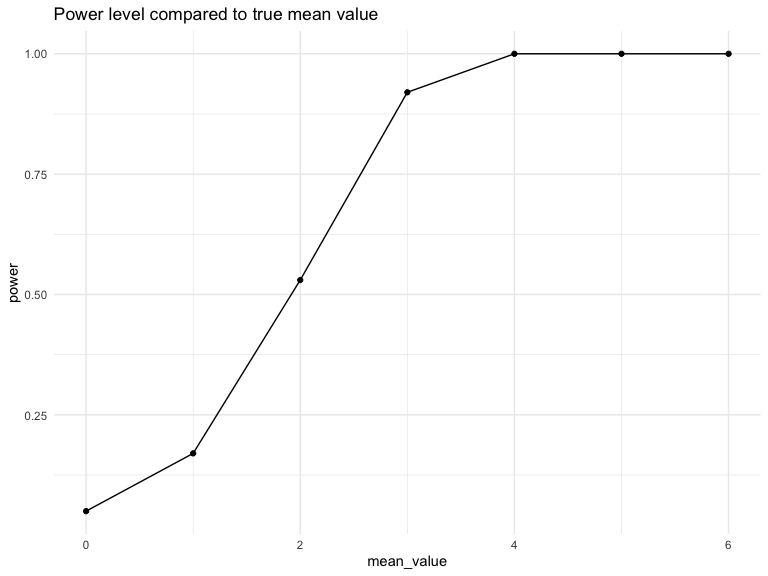
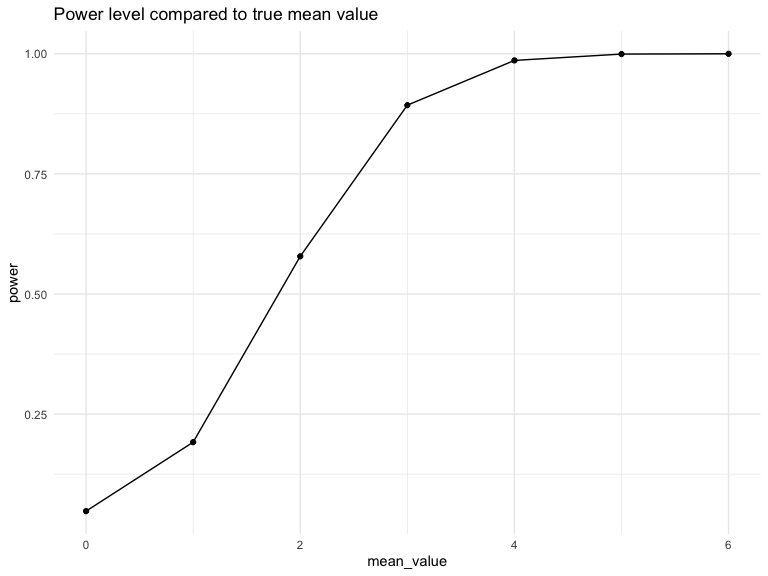
plots

diff --git a/p8105_hw5_clk2162.md b/p8105_hw5_clk2162.md
@@ -247,12 +247,12 @@ head(sim_results)
     ## # A tibble: 6 × 2
     ##   mean_hat p_value
     ##      <dbl>   <dbl>
-    ## 1    1.44   0.151 
-    ## 2    1.09   0.313 
-    ## 3   -0.871  0.390 
-    ## 4   -0.168  0.828 
-    ## 5    0.523  0.614 
-    ## 6    2.09   0.0273
+    ## 1    0.273   0.786
+    ## 2   -0.622   0.538
+    ## 3    0.606   0.541
+    ## 4    0.437   0.597
+    ## 5    1.23    0.181
+    ## 6    0.720   0.465
 
 ``` r
 # Now do this for means 1, 2, 3, 4, 5, 6
@@ -260,11 +260,11 @@ head(sim_results)
 multiple_means <- 
   expand_grid(
     mean_value = c(0, 1, 2, 3, 4, 5, 6),
-    iter = 1:100
-  ) %>% 
+    iter = 1:5000
+    ) %>% 
   mutate(
     estimate_df = map(mean_value, normal_sample)
-  ) %>% 
+    ) %>% 
   unnest(estimate_df)
 
 # power = proportion of times the null was rejected
